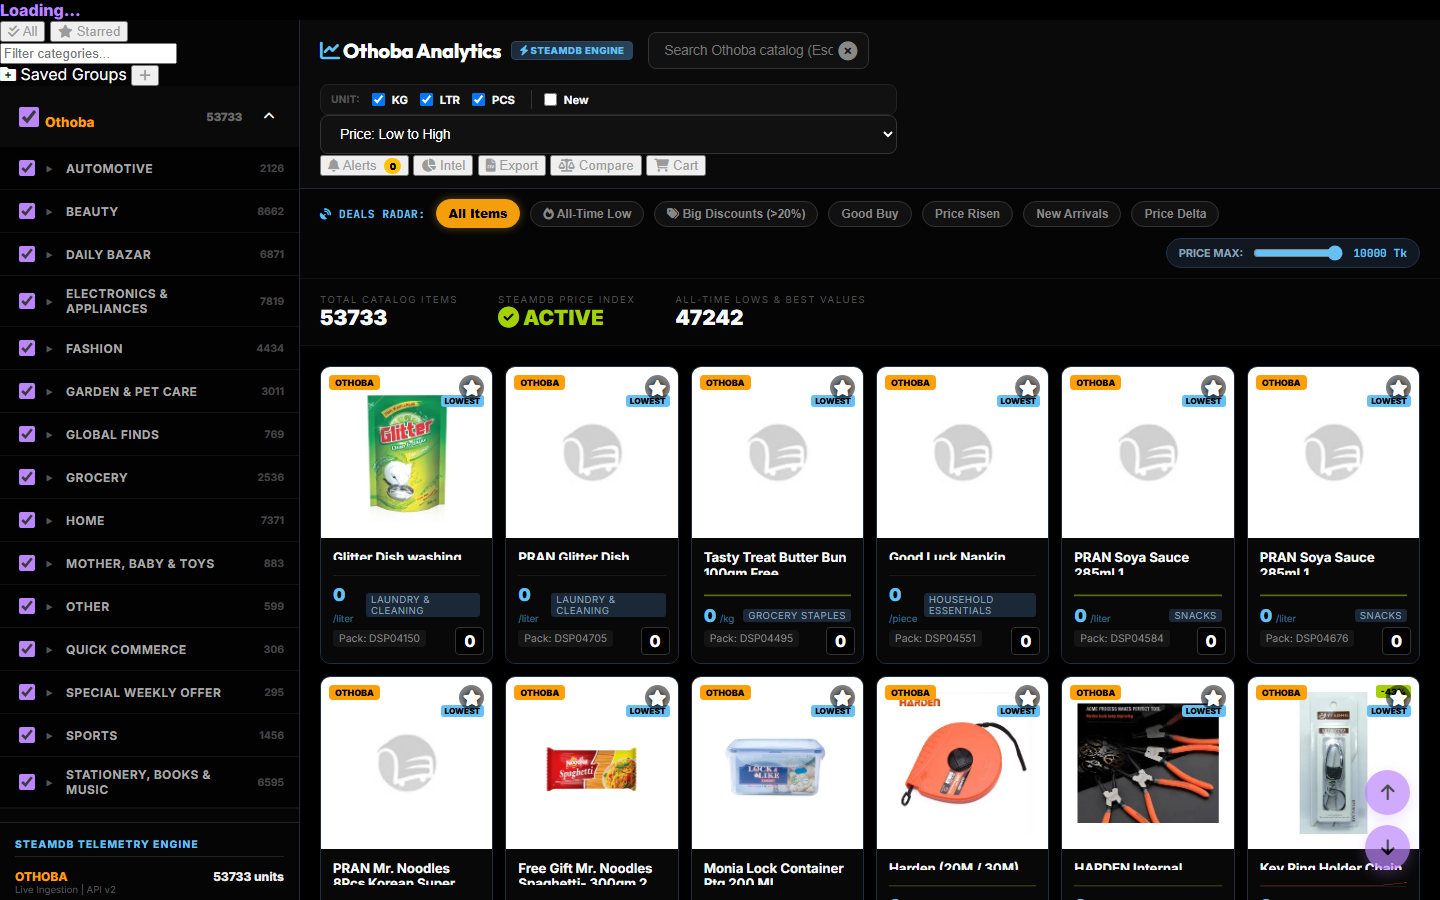
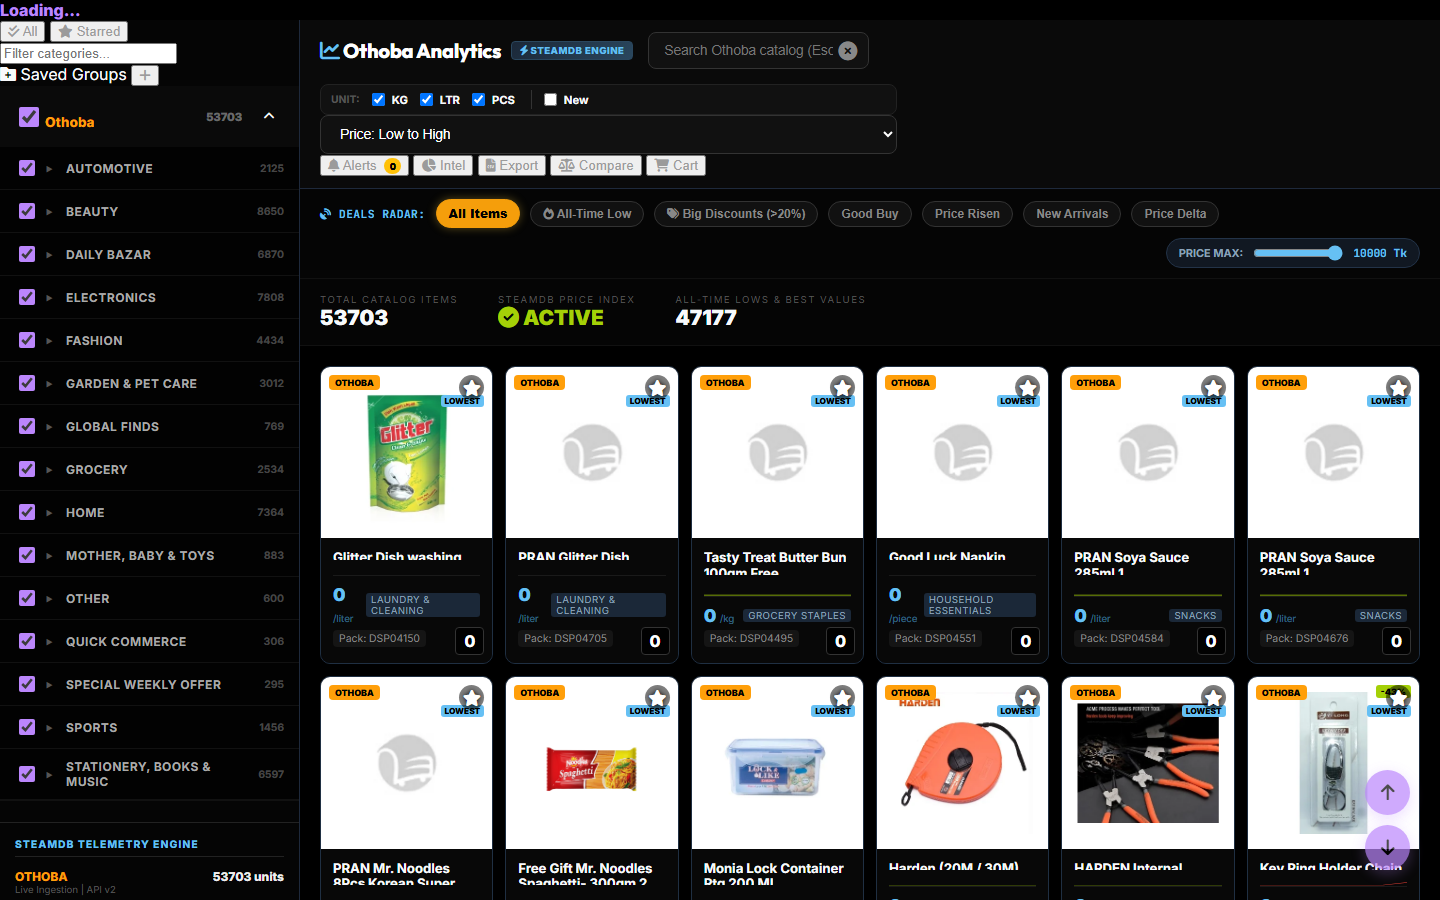
fix: export fresh price history data & add dashboard feature screenshots to README

diff --git a/README.md b/README.md
@@ -1,138 +1,39 @@
-# 🛒 Othoba Price Tracker & Analytics Suite
+# Othoba Analytics — E-Commerce Price & History Engine
 
-> **Multi-Threaded API Harvester, HAR Reverse-Engineering Engine & Price Analytics Dashboard for Othoba.com.**
-
-[![Live Demo](https://img.shields.io/badge/Live%20Demo-GitHub%20Pages-0099ff?style=for-the-badge&logo=github)](https://ranehal.github.io/othobaTRACKER/)
-[![Python 3.9+](https://img.shields.io/badge/Python-3.9%2B-3776AB?style=for-the-badge&logo=python&logoColor=white)](https://www.python.org/)
-[![JavaScript ES6+](https://img.shields.io/badge/JavaScript-ES6%2B-F7DF1E?style=for-the-badge&logo=javascript&logoColor=black)](https://developer.mozilla.org/)
-[![License: MIT](https://img.shields.io/badge/License-MIT-yellow.svg?style=for-the-badge)](LICENSE)
+Othoba online shopping scraper, SQLite history archive, and static web dashboard.
 
 ---
 
-## 📌 Executive Summary
+## 🌐 Dashboard & Live Preview
 
-**othobaTRACKER** is an automated catalog ingestion engine and historical price tracking web dashboard engineered for [Othoba.com](https://www.othoba.com), PRAN-RFL Group's online shopping marketplace in Bangladesh.
-
-The platform reverse-engineers Othoba's backend REST API (`app.othoba.com/api-frontend`), executes concurrent multi-threaded requests (`ThreadPoolExecutor`), handles `gzip` compressed network responses, and generates static dataset exports consumed by a zero-dependency web dashboard hosted on GitHub Pages.
+![Dashboard Preview](screenshots/dashboard.png)
 
 ---
 
-## 🚀 Key Features
+## 📈 Price History & Historical Analytics
 
-- **🔐 Reverse-Engineered HAR Forensic Engine**: Discovered authentication headers (`authorization: 11CZ+eanknvgRupFlOA0Eg`) and API endpoints from mobile HAR network inspection.
-- **⚡ Multi-Threaded Ingestion (`scraper.py`)**: Uses Python's `ThreadPoolExecutor` for parallel category pagination across catalog endpoints.
-- **📦 Gzip Response Processing**: Handles raw `gzip` HTTP payloads transparently using Python standard library headers.
-- **🌐 Static GitHub Pages Hosting**: Exports structured static JSON datasets directly into `frontend/`, allowing serverless deployment on GitHub Pages.
-- **⚡ Windows Launcher Script (`runall.bat`)**: Single-click script for automated scraping, local web server execution, and GitHub git push workflows (`push.bat`).
+![Price History & Charts](screenshots/price_history.png)
 
 ---
 
-## 📸 Screenshots
+## 🔍 Features & Interactive Exploration
 
-![Othoba Price Monitor Dashboard](screenshots/dashboard.png)
-
----
-
-## 🏗 System Architecture
-
-```mermaid
-flowchart TD
-    subgraph Reverse_Engineering ["🔐 HAR Analysis Phase"]
-        HAR[Reqable HAR Capture] -->|extract_har.py| Credentials[Extract API Token & Headers]
-    end
-
-    subgraph Scraper_Pipeline ["⚡ Ingestion Engine"]
-        Credentials --> Scraper[scraper.py ThreadPoolExecutor]
-        Scraper -->|POST JSON-Patch API| API[app.othoba.com/api-frontend]
-        API-->>|Gzip Compressed JSON| Scraper
-    end
-
-    subgraph Storage_And_UI ["📊 Presentation & Deployment"]
-        Scraper -->|Export Datasets| FrontendData[frontend/*.json]
-        FrontendData --> SPA[frontend/index.html SPA Dashboard]
-        SPA -->|push.bat| GHPages[GitHub Pages Deployment]
-    end
-```
+![Features & Category View](screenshots/features.png)
 
 ---
 
-## 📁 Repository Structure
+## 🛠 Features & Architecture
 
-```
-othoba/
-├── scraper.py           # Multi-threaded API scraper (urllib, ThreadPoolExecutor)
-├── extract_har.py       # HAR file network traffic extractor & analyzer
-├── runall.bat           # Interactive Windows batch launcher (Scraper / Server / Both)
-├── push.bat             # Git automation script for committing and pushing updates
-├── frontend/            # Web Application SPA & Data Export Directory
-│   ├── index.html       # Single-page dashboard interface
-│   ├── app.js           # Analytics logic, catalog filter, and chart rendering
-│   └── styles.css       # Responsive dark-mode styling
-└── README.md            # Technical documentation
-```
+- **Automated Price Tracking**: Scrapes live catalog prices and logs historical deltas.
+- **Fast Interactive UI**: Clean, responsive frontend with search, filters, and movers panels.
+- **Automated GitHub Pipeline**: Continuous scraping and daily snapshot deployments via GitHub Actions & Kaggle orchestrator.
 
----
+## ⚡ Local Run Instructions
 
-## 🛠 API & Header Specification
-
-- **Base Endpoint**: `https://app.othoba.com/api-frontend`
-- **Authorization Token**: `11CZ+eanknvgRupFlOA0Eg`
-- **Content Type**: `application/json-patch+json`
-- **User-Agent Header**: `okhttp/4.9.3`
-
----
-
-## ⚡ Quick Start & Usage
-
-### 1. Interactive Windows Launcher
-Run [`runall.bat`](file:///C:/PROJECTS/othoba/runall.bat):
-```cmd
-runall.bat
-```
-Select option 1 to scrape, option 2 to run the dashboard server, or option 3 to execute both.
-
-### 2. Command Line Execution
 ```bash
-# Execute scraper engine
+# Run the scraper entry point
 python scraper.py
 
-# Launch local dashboard server
-python -m http.server 8000 -d frontend
+# Serve dashboard locally
+python -m http.server 8000
 ```
-Open `http://localhost:8000` in your web browser.
-
----
-
-## 📜 License
-
-Distributed under the MIT License. Trademarks and data belong to Othoba.com / PRAN-RFL Group. Built for analytical tracking.
-
----
-
-## 🚀 Future Work & Industrial Roadmap
-
-To elevate this platform to an enterprise-grade, production-ready product meeting current industrial standards, the following strategic goals and architecture enhancements are planned:
-
-### 1. 🏗 High-Availability Microservices & Infrastructure
-- **Containerization & Orchestration**: Package ingestion workers, APIs, and dashboards into Docker containers with deployment via **Kubernetes (K8s)** and Helm charts for autoscaling during peak traffic hours.
-- **Distributed Ingestion Workers**: Transition from localized scraping scripts to an asynchronous, fault-tolerant worker pool utilizing **Celery + Redis** or **Temporal.io** with automated proxy rotation, rate-limiting retry strategies, and CAPTCHA bypass capabilities.
-- **High-Performance API Gateway**: Implement an enterprise API Gateway (Kong / Envoy) providing OAuth2 / JWT authentication, TLS termination, and granular rate limiting (Token Bucket algorithm).
-
-### 2. 📊 Enterprise Data Engineering & Streaming Pipelines
-- **Data Lakehouse Architecture**: Store multi-year raw price histories using **Apache Parquet / Delta Lake** or **Google BigQuery** for scalable analytical queries across millions of SKU updates.
-- **Real-Time CDC & Message Streaming**: Integrate **Apache Kafka** or **NATS** for Change Data Capture (CDC) to stream price change events instantly to downstream analytics and notification consumers.
-- **Automated Workflow Orchestration**: Schedule and monitor data ingestion, ETL pipelines, and unit normalization using **Apache Airflow** or **Prefect** integrated with **dbt** for dynamic data transformations.
-
-### 3. 🧠 Machine Learning & Advanced Market Intelligence
-- **Predictive Price Forecasting**: Deploy **Prophet** and **LSTM Neural Networks** to predict future price drops, historical promotion trends, and seasonal discount cycles.
-- **Anomaly & Surge Detection**: Build ML models to identify artificial price hikes before promotional sales, mislabeled unit metrics, and phantom stock availability.
-- **Semantic Product Entity Matching**: Utilize vector embeddings (OpenAI / Sentence-Transformers) paired with **pgvector** / **Pinecone** to match identical SKUs across competitor platforms despite variations in naming formats.
-
-### 4. 🔐 Security, Compliance & System Observability
-- **Zero-Trust Security & RBAC**: Enforce Role-Based Access Control (RBAC), AES-256 GCM payload encryption at rest, and secret rotation via HashiCorp Vault.
-- **Full Observability Stack**: Instrument services with **OpenTelemetry**, emitting distributed traces, Prometheus metrics, and structured logs to **Grafana Loki & Tempo** dashboards.
-- **SLA Alerting & Webhook Engine**: Provide instant trigger notifications via **Telegram Bot API**, **Discord Webhooks**, email notifications, and enterprise SMS gateways when watched items reach target prices.
-
-### 5. 📱 Next-Gen User Experience & Mobile Platforms
-- **Cross-Platform Mobile App**: Develop a dedicated **React Native / Flutter** app featuring push notifications for price drops, barcode scanning in physical stores, and personalized deal watchlists.
-- **Progressive Web App (PWA)**: Upgrade the dashboard to a full PWA with offline caching via Service Workers, dynamic theme switching, and desktop application installability.
